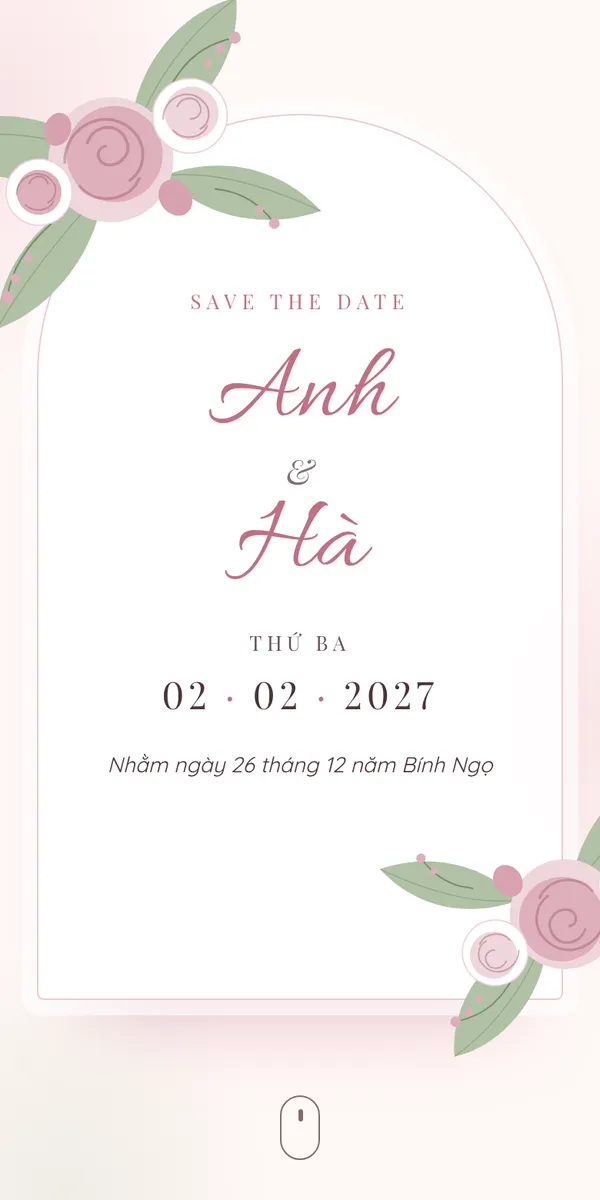
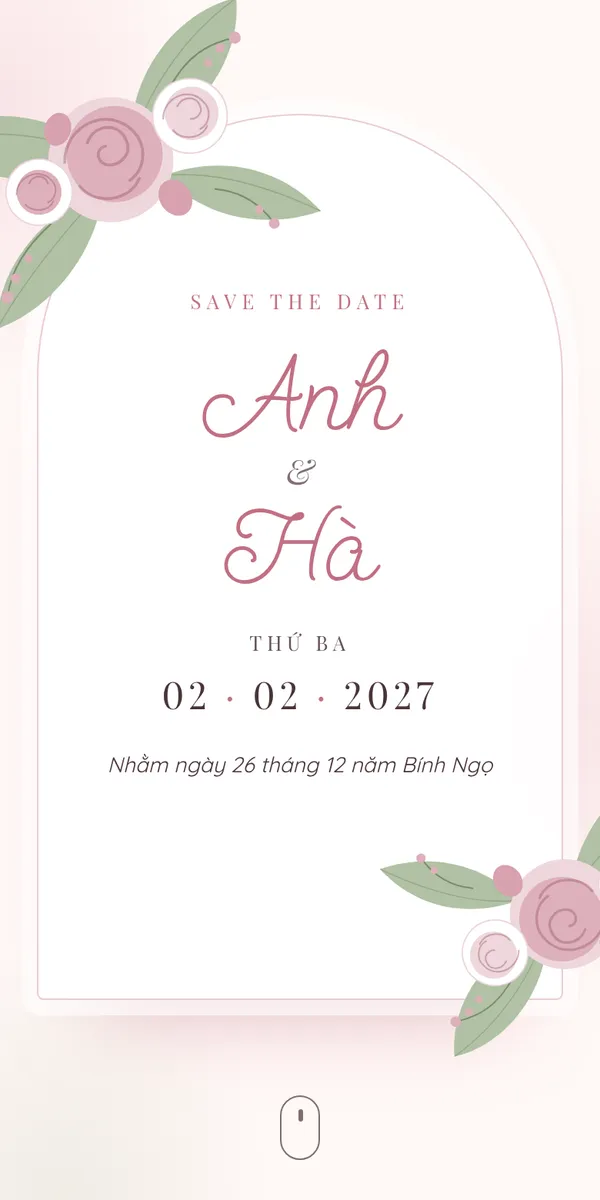
Showcase new effects on the landing page and refresh template previews
- Landing page: effect demo chips linking to live demos with query
  overrides, updated feature cards (8 intros, 16 effects, 70 fonts)
- Regenerated preview images for the existing templates after the
  font refresh

Claude-Session: https://claude.ai/code/session_01DXqp1M4FPHPehpcyK2iCdT

Changed region(s): [[0.33, 0.2775, 0.66, 0.37], [0.36, 0.4008, 0.63, 0.4933]]

diff --git a/public/site.css b/public/site.css
@@ -108,3 +108,9 @@ p { margin: 0; }
 .message__card h1 { font-family: "Playfair Display", serif; font-weight: 500; font-size: 28px; }
 .message__card p { color: var(--muted); }
 .message__actions { display: flex; gap: 10px; justify-content: center; flex-wrap: wrap; margin-top: 8px; }
+
+.fx-demo { padding-bottom: 56px; }
+.fx-demo__chips { display: flex; flex-wrap: wrap; justify-content: center; gap: 10px; }
+.fx-chip { display: inline-flex; align-items: center; gap: 8px; padding: 10px 16px; border-radius: 999px; background: var(--card); border: 1px solid var(--line); text-decoration: none; font-weight: 500; font-size: 14.5px; transition: border-color .2s, transform .2s, box-shadow .2s; }
+.fx-chip:hover { border-color: var(--brand); transform: translateY(-2px); box-shadow: var(--shadow); }
+.fx-chip span { font-size: 18px; }
